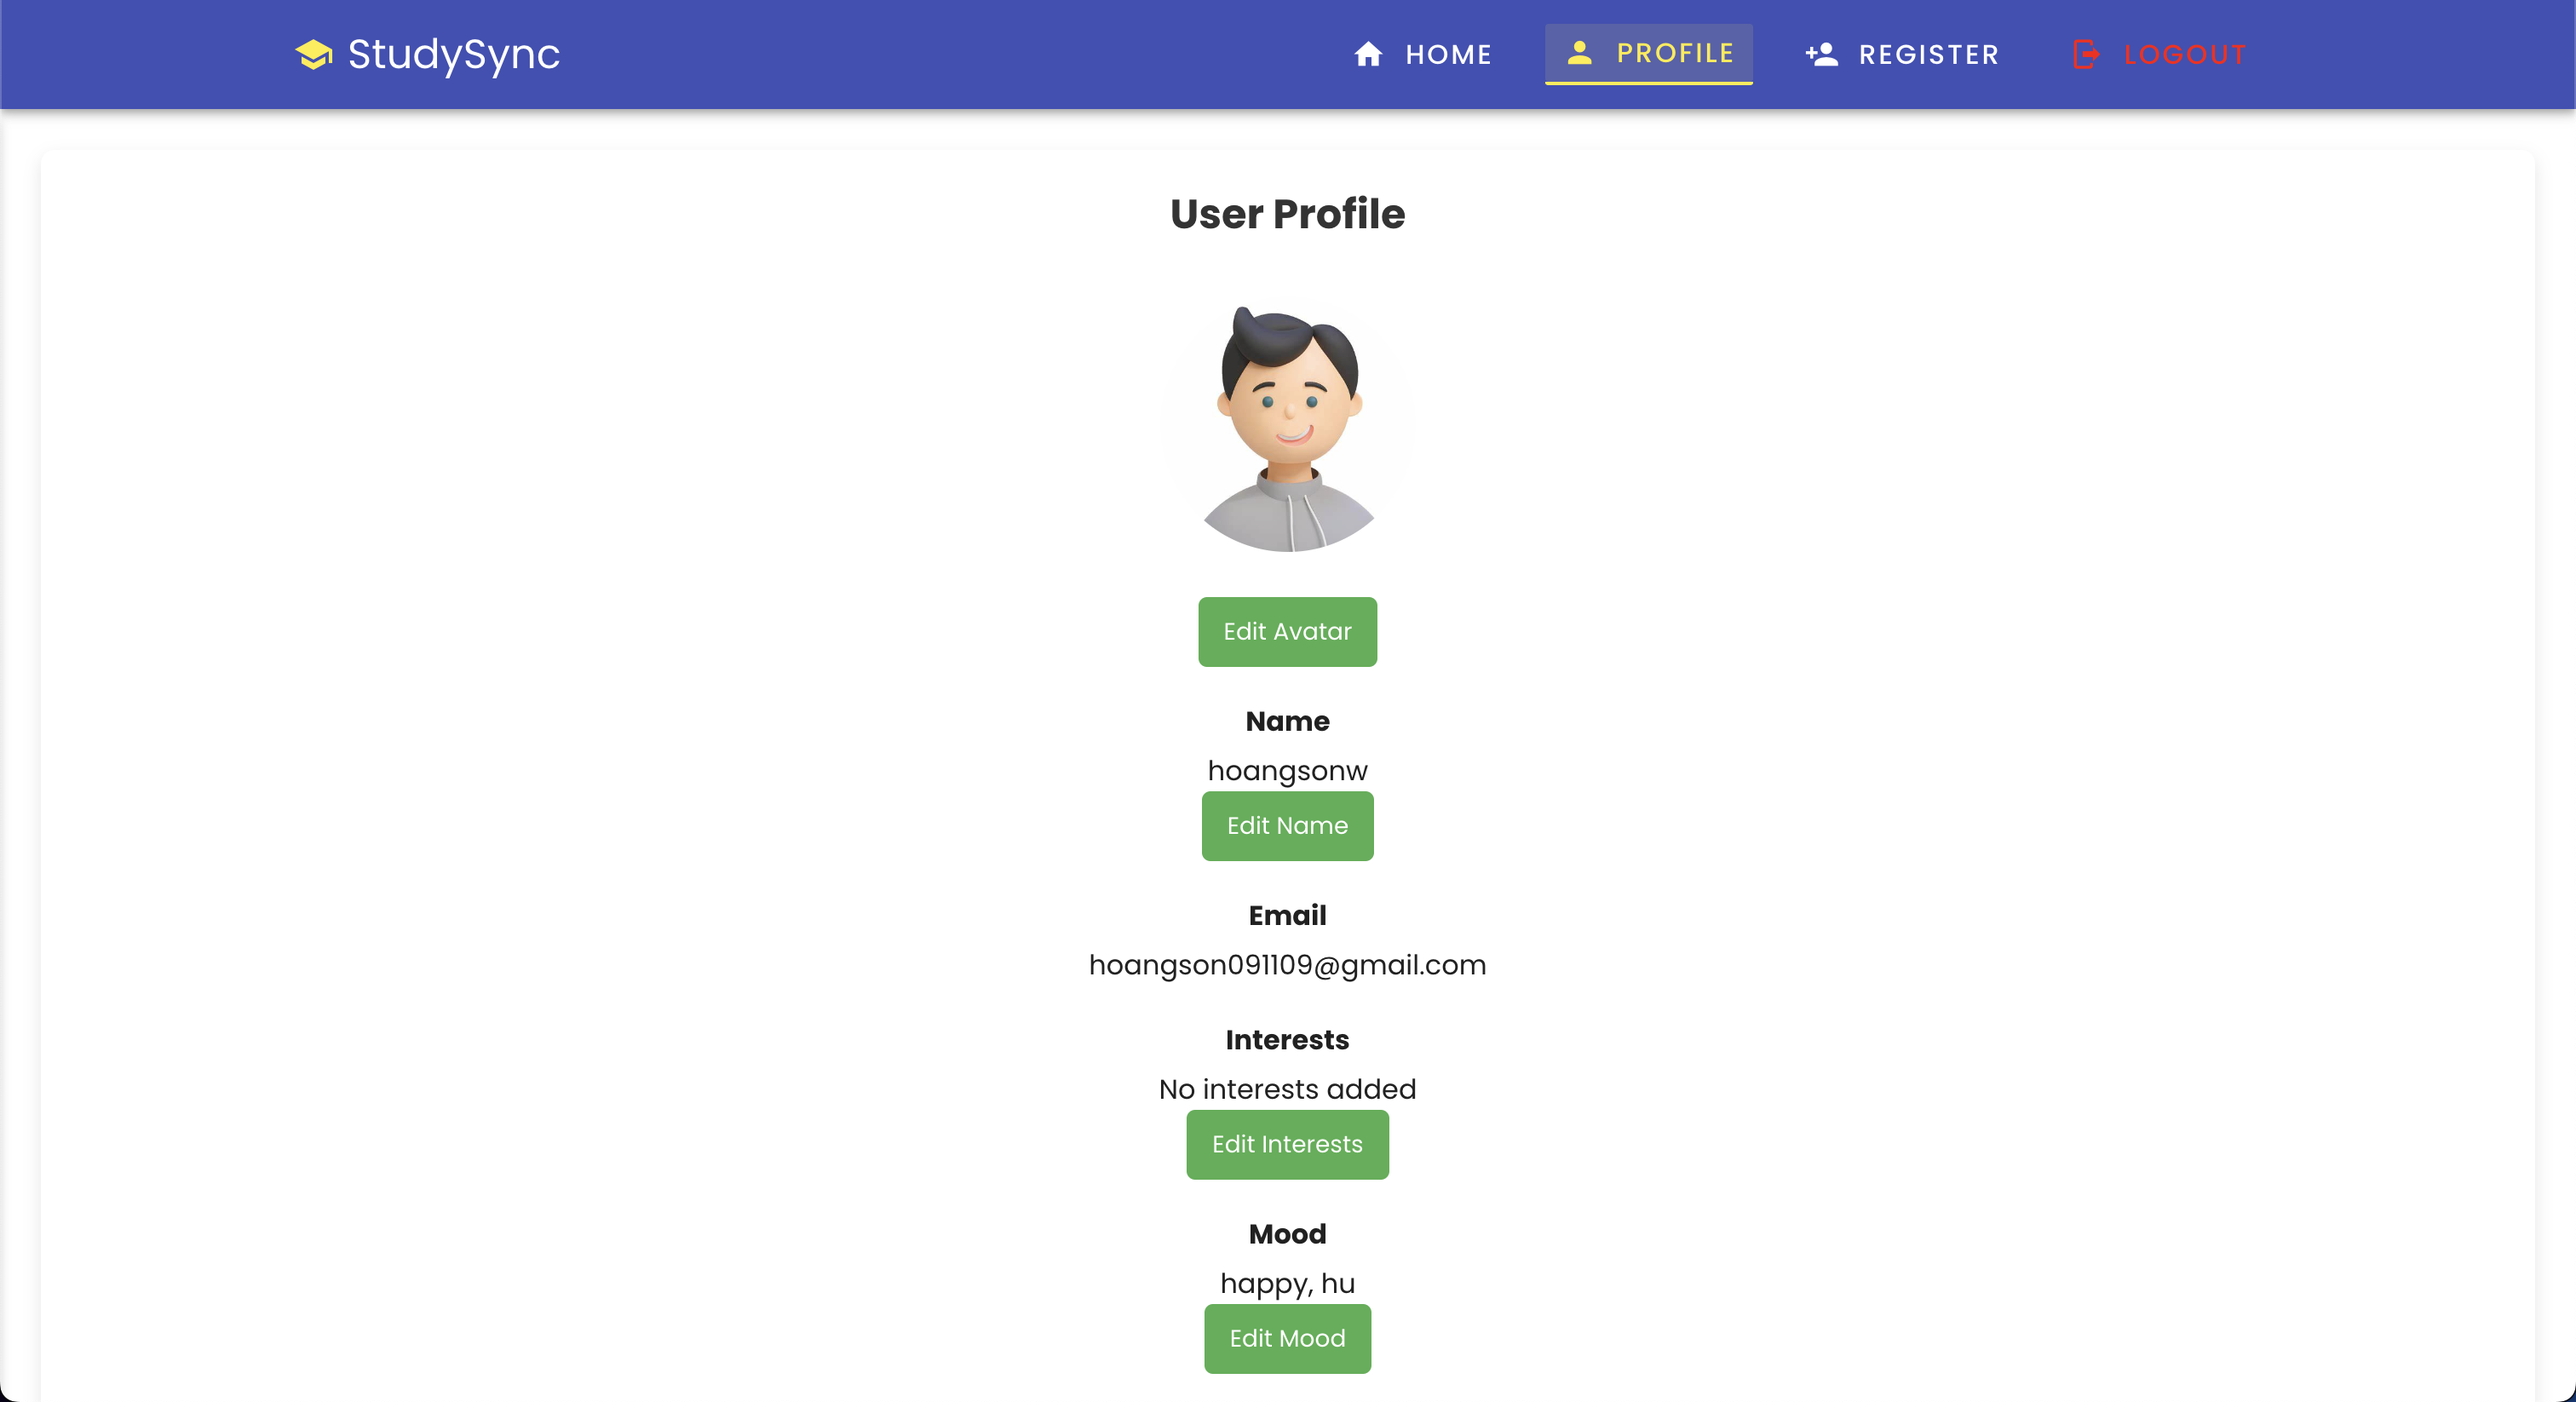
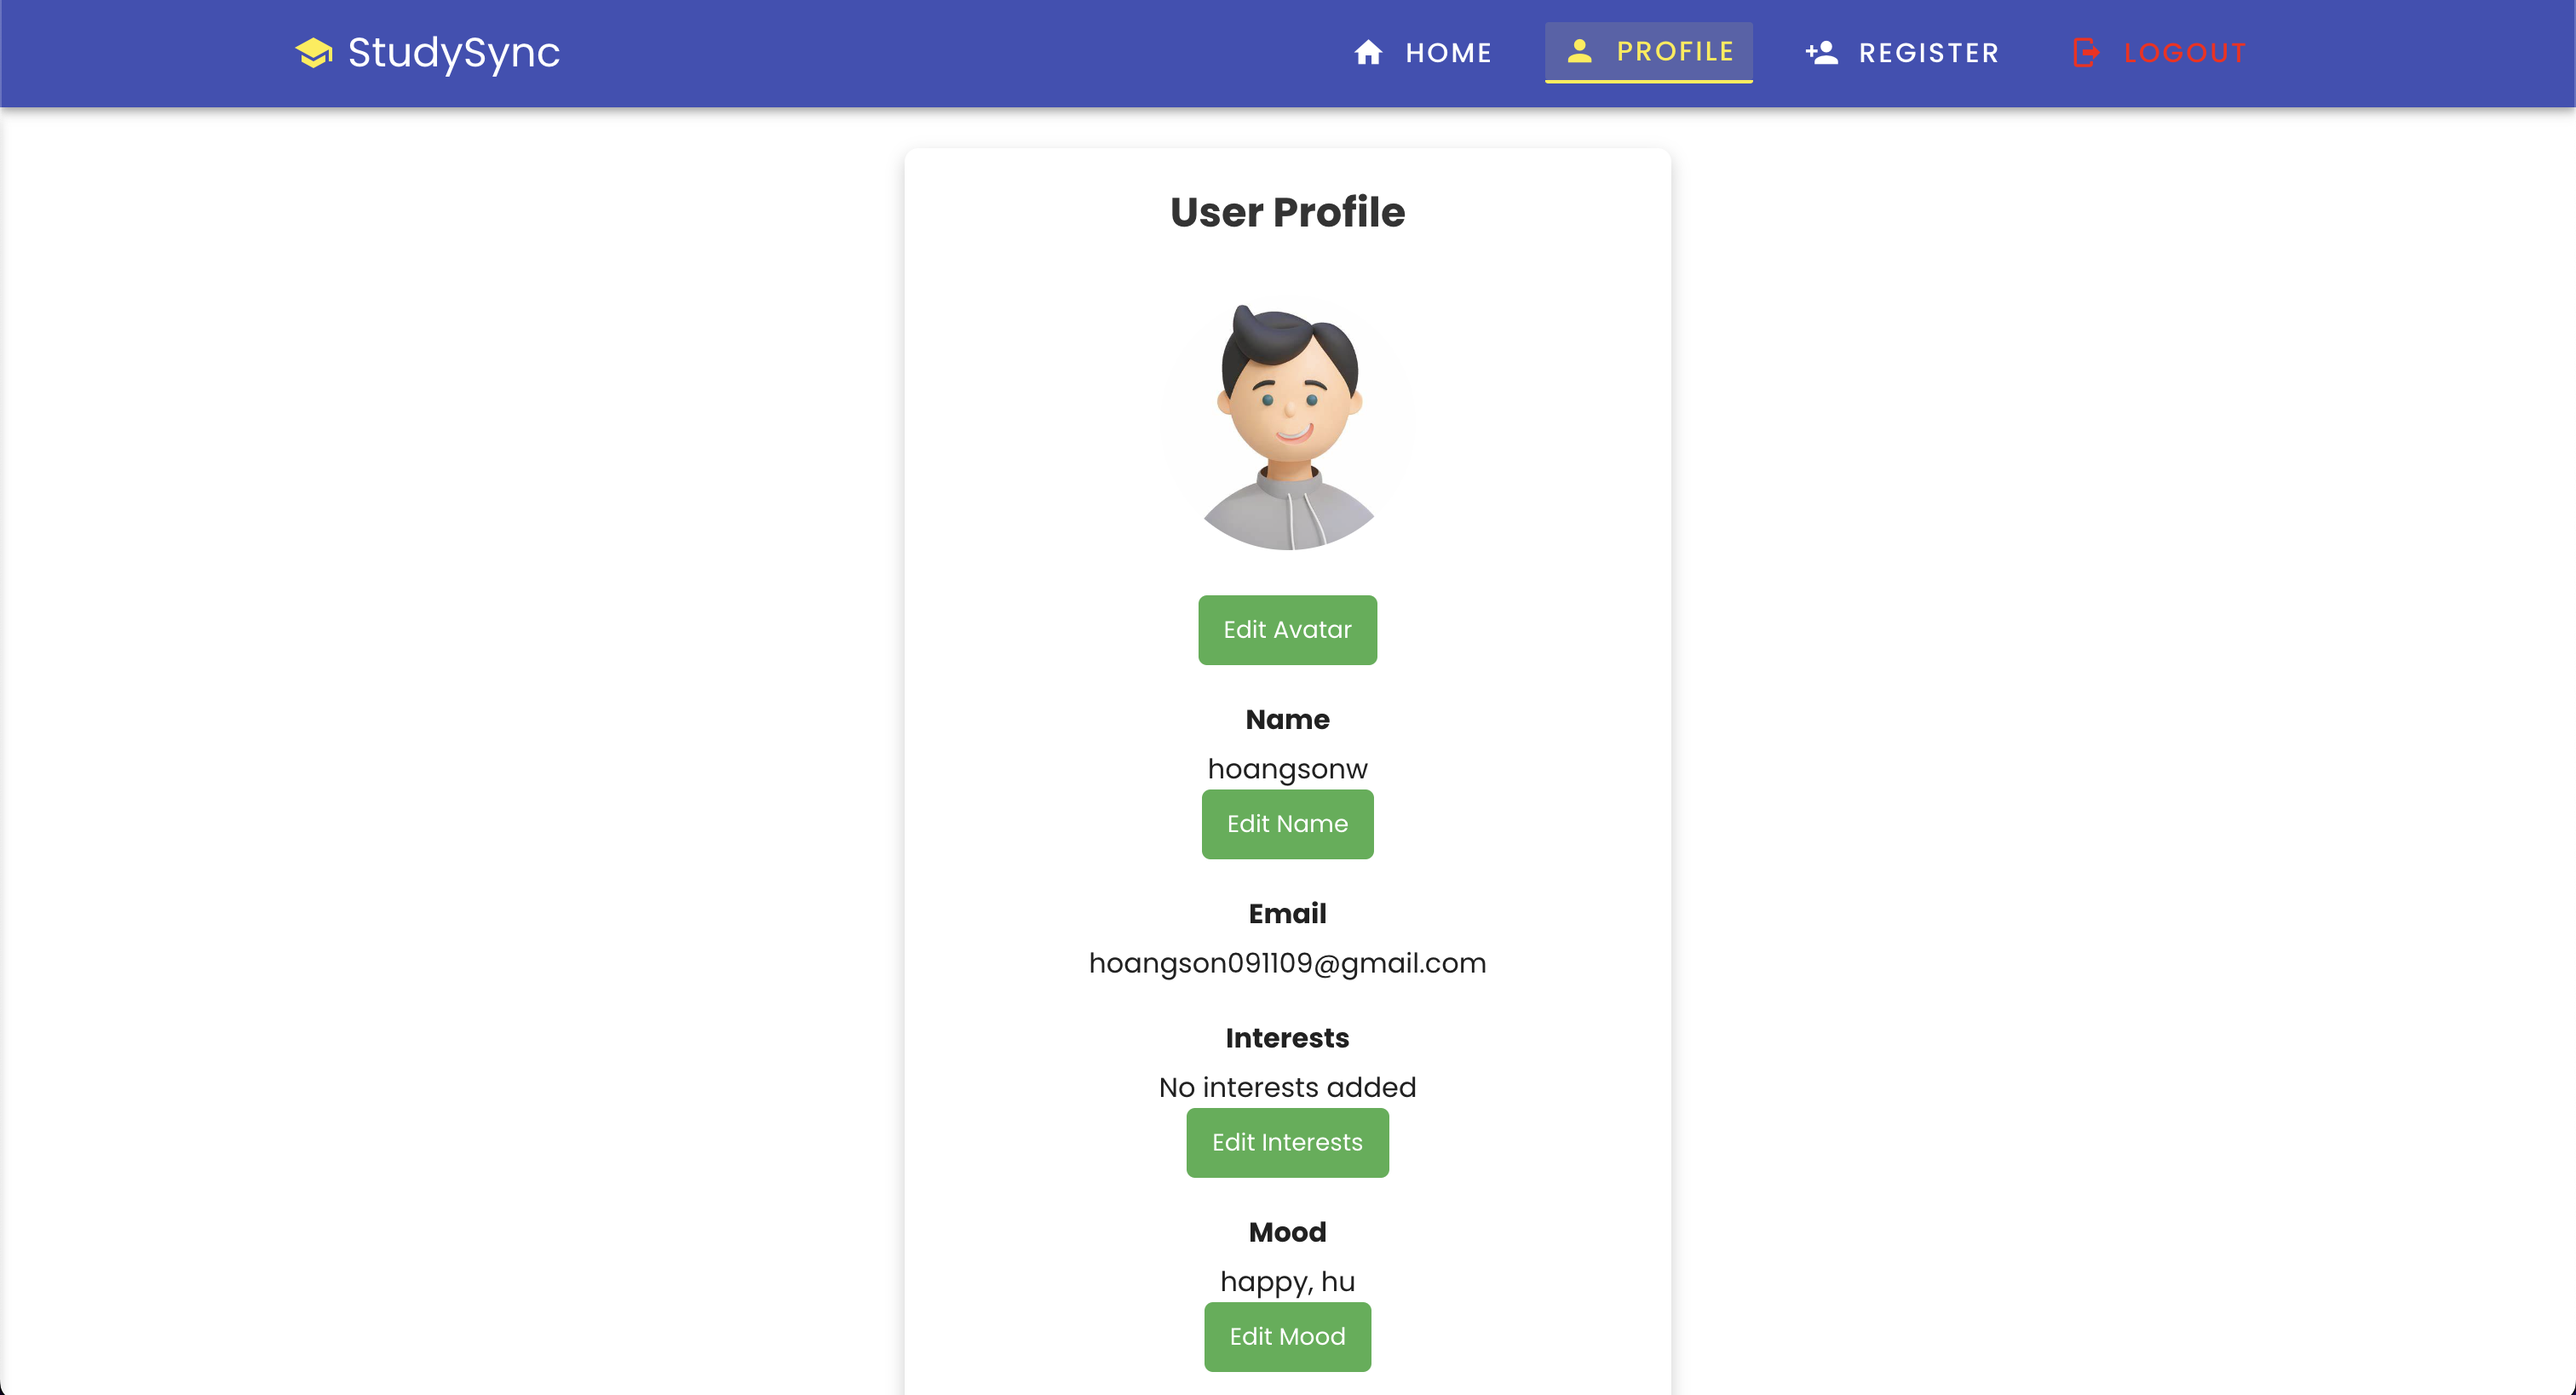
Final: App Working

diff --git a/frontend/study-sync-app/src/components/UserRegister.vue b/frontend/study-sync-app/src/components/UserRegister.vue
@@ -9,52 +9,63 @@
           <v-card-text>
             <v-form @submit.prevent="submitRegister">
               <v-text-field
-                label="Name"
-                v-model="name"
-                prepend-icon="mdi-account"
-                outlined
-                dense
-                required
+                  label="Name"
+                  v-model="name"
+                  prepend-icon="mdi-account"
+                  outlined
+                  dense
+                  required
               />
               <v-text-field
-                label="Email"
-                v-model="email"
-                prepend-icon="mdi-email"
-                outlined
-                dense
-                required
+                  label="Email"
+                  v-model="email"
+                  prepend-icon="mdi-email"
+                  outlined
+                  dense
+                  required
               />
               <v-text-field
-                label="Password"
-                v-model="password"
-                :type="showPassword ? 'text' : 'password'"
-                prepend-icon="mdi-lock"
-                outlined
-                dense
-                required
-                :append-icon="showPassword ? 'mdi-eye-off' : 'mdi-eye'"
-                @click:append="togglePasswordVisibility"
+                  label="Password"
+                  v-model="password"
+                  :type="showPassword ? 'text' : 'password'"
+                  prepend-icon="mdi-lock"
+                  outlined
+                  dense
+                  required
+                  :append-icon="showPassword ? 'mdi-eye-off' : 'mdi-eye'"
+                  @click:append="togglePasswordVisibility"
               />
               <v-text-field
-                label="Confirm Password"
-                v-model="confirmPassword"
-                :type="showConfirmPassword ? 'text' : 'password'"
-                prepend-icon="mdi-lock"
-                outlined
-                dense
-                required
-                :append-icon="showConfirmPassword ? 'mdi-eye-off' : 'mdi-eye'"
-                @click:append="toggleConfirmPasswordVisibility"
+                  label="Confirm Password"
+                  v-model="confirmPassword"
+                  :type="showConfirmPassword ? 'text' : 'password'"
+                  prepend-icon="mdi-lock"
+                  outlined
+                  dense
+                  required
+                  :append-icon="showConfirmPassword ? 'mdi-eye-off' : 'mdi-eye'"
+                  @click:append="toggleConfirmPasswordVisibility"
               />
               <v-btn
-                color="primary"
-                class="mt-4 register-btn"
-                block
-                type="submit"
-                elevation="2"
-                style="font-size: 16px"
+                  color="primary"
+                  class="mt-4 register-btn"
+                  block
+                  type="submit"
+                  elevation="2"
+                  :loading="isLoading"
+                  :disabled="isLoading"
+                  style="font-size: 16px"
               >
-                Register
+                <template v-if="!isLoading">Register</template>
+                <template v-else>
+                  <v-progress-circular
+                      indeterminate
+                      color="white"
+                      size="20"
+                      class="mr-2"
+                  />
+                  Loading...
+                </template>
               </v-btn>
               <p v-if="errorMessage" class="error-message">
                 {{ errorMessage }}
@@ -79,6 +90,7 @@ export default {
       confirmPassword: "",
       showPassword: false, // State for password visibility toggle
       showConfirmPassword: false, // State for confirm password visibility toggle
+      isLoading: false, // Loading state for register button
       errorMessage: null,
     };
   },
@@ -95,6 +107,8 @@ export default {
         this.errorMessage = "Passwords do not match.";
         return;
       }
+      this.isLoading = true; // Set loading state
+      this.errorMessage = null; // Clear previous error
       try {
         // Send registration request (does not log the user in)
         await this.register({
@@ -108,10 +122,12 @@ export default {
       } catch (error) {
         // Handle error: Display the message from the backend
         this.errorMessage =
-          error.response && error.response.data && error.response.data.message
-            ? error.response.data.message
-            : "Registration failed. Please try again.";
+            error.response && error.response.data && error.response.data.message
+                ? error.response.data.message
+                : "Registration failed. Please try again.";
         console.error("Error during registration:", error);
+      } finally {
+        this.isLoading = false; // Reset loading state
       }
     },
   },
@@ -132,9 +148,8 @@ export default {
   font-family: "Poppins", sans-serif;
   box-shadow: 0px 4px 12px rgba(0, 0, 0, 0.1);
   border-radius: 8px;
-  transition:
-    transform 0.2s ease,
-    box-shadow 0.2s ease;
+  transition: transform 0.2s ease,
+  box-shadow 0.2s ease;
 }
 
 .register-card:hover {

diff --git a/frontend/study-sync-app/src/components/UserProfile.vue b/frontend/study-sync-app/src/components/UserProfile.vue
@@ -431,9 +431,10 @@ export default {
   padding: 20px;
   background: #fff;
   border-radius: 8px;
-  box-shadow: 0 4px 10px rgba(0, 0, 0, 0.1);
+  box-shadow: 0 4px 10px rgba(0, 0, 0, 0.2);
   font-family: "Poppins", sans-serif;
   text-align: center;
+  max-width: 450px;
 }
 
 h2 {

diff --git a/frontend/study-sync-app/src/components/LandingPage.vue b/frontend/study-sync-app/src/components/LandingPage.vue
@@ -93,7 +93,7 @@ export default {
   },
   methods: {
     navigateToApp() {
-      this.$router.push("/home");
+      this.$router.push("/login");
     },
   },
 };
